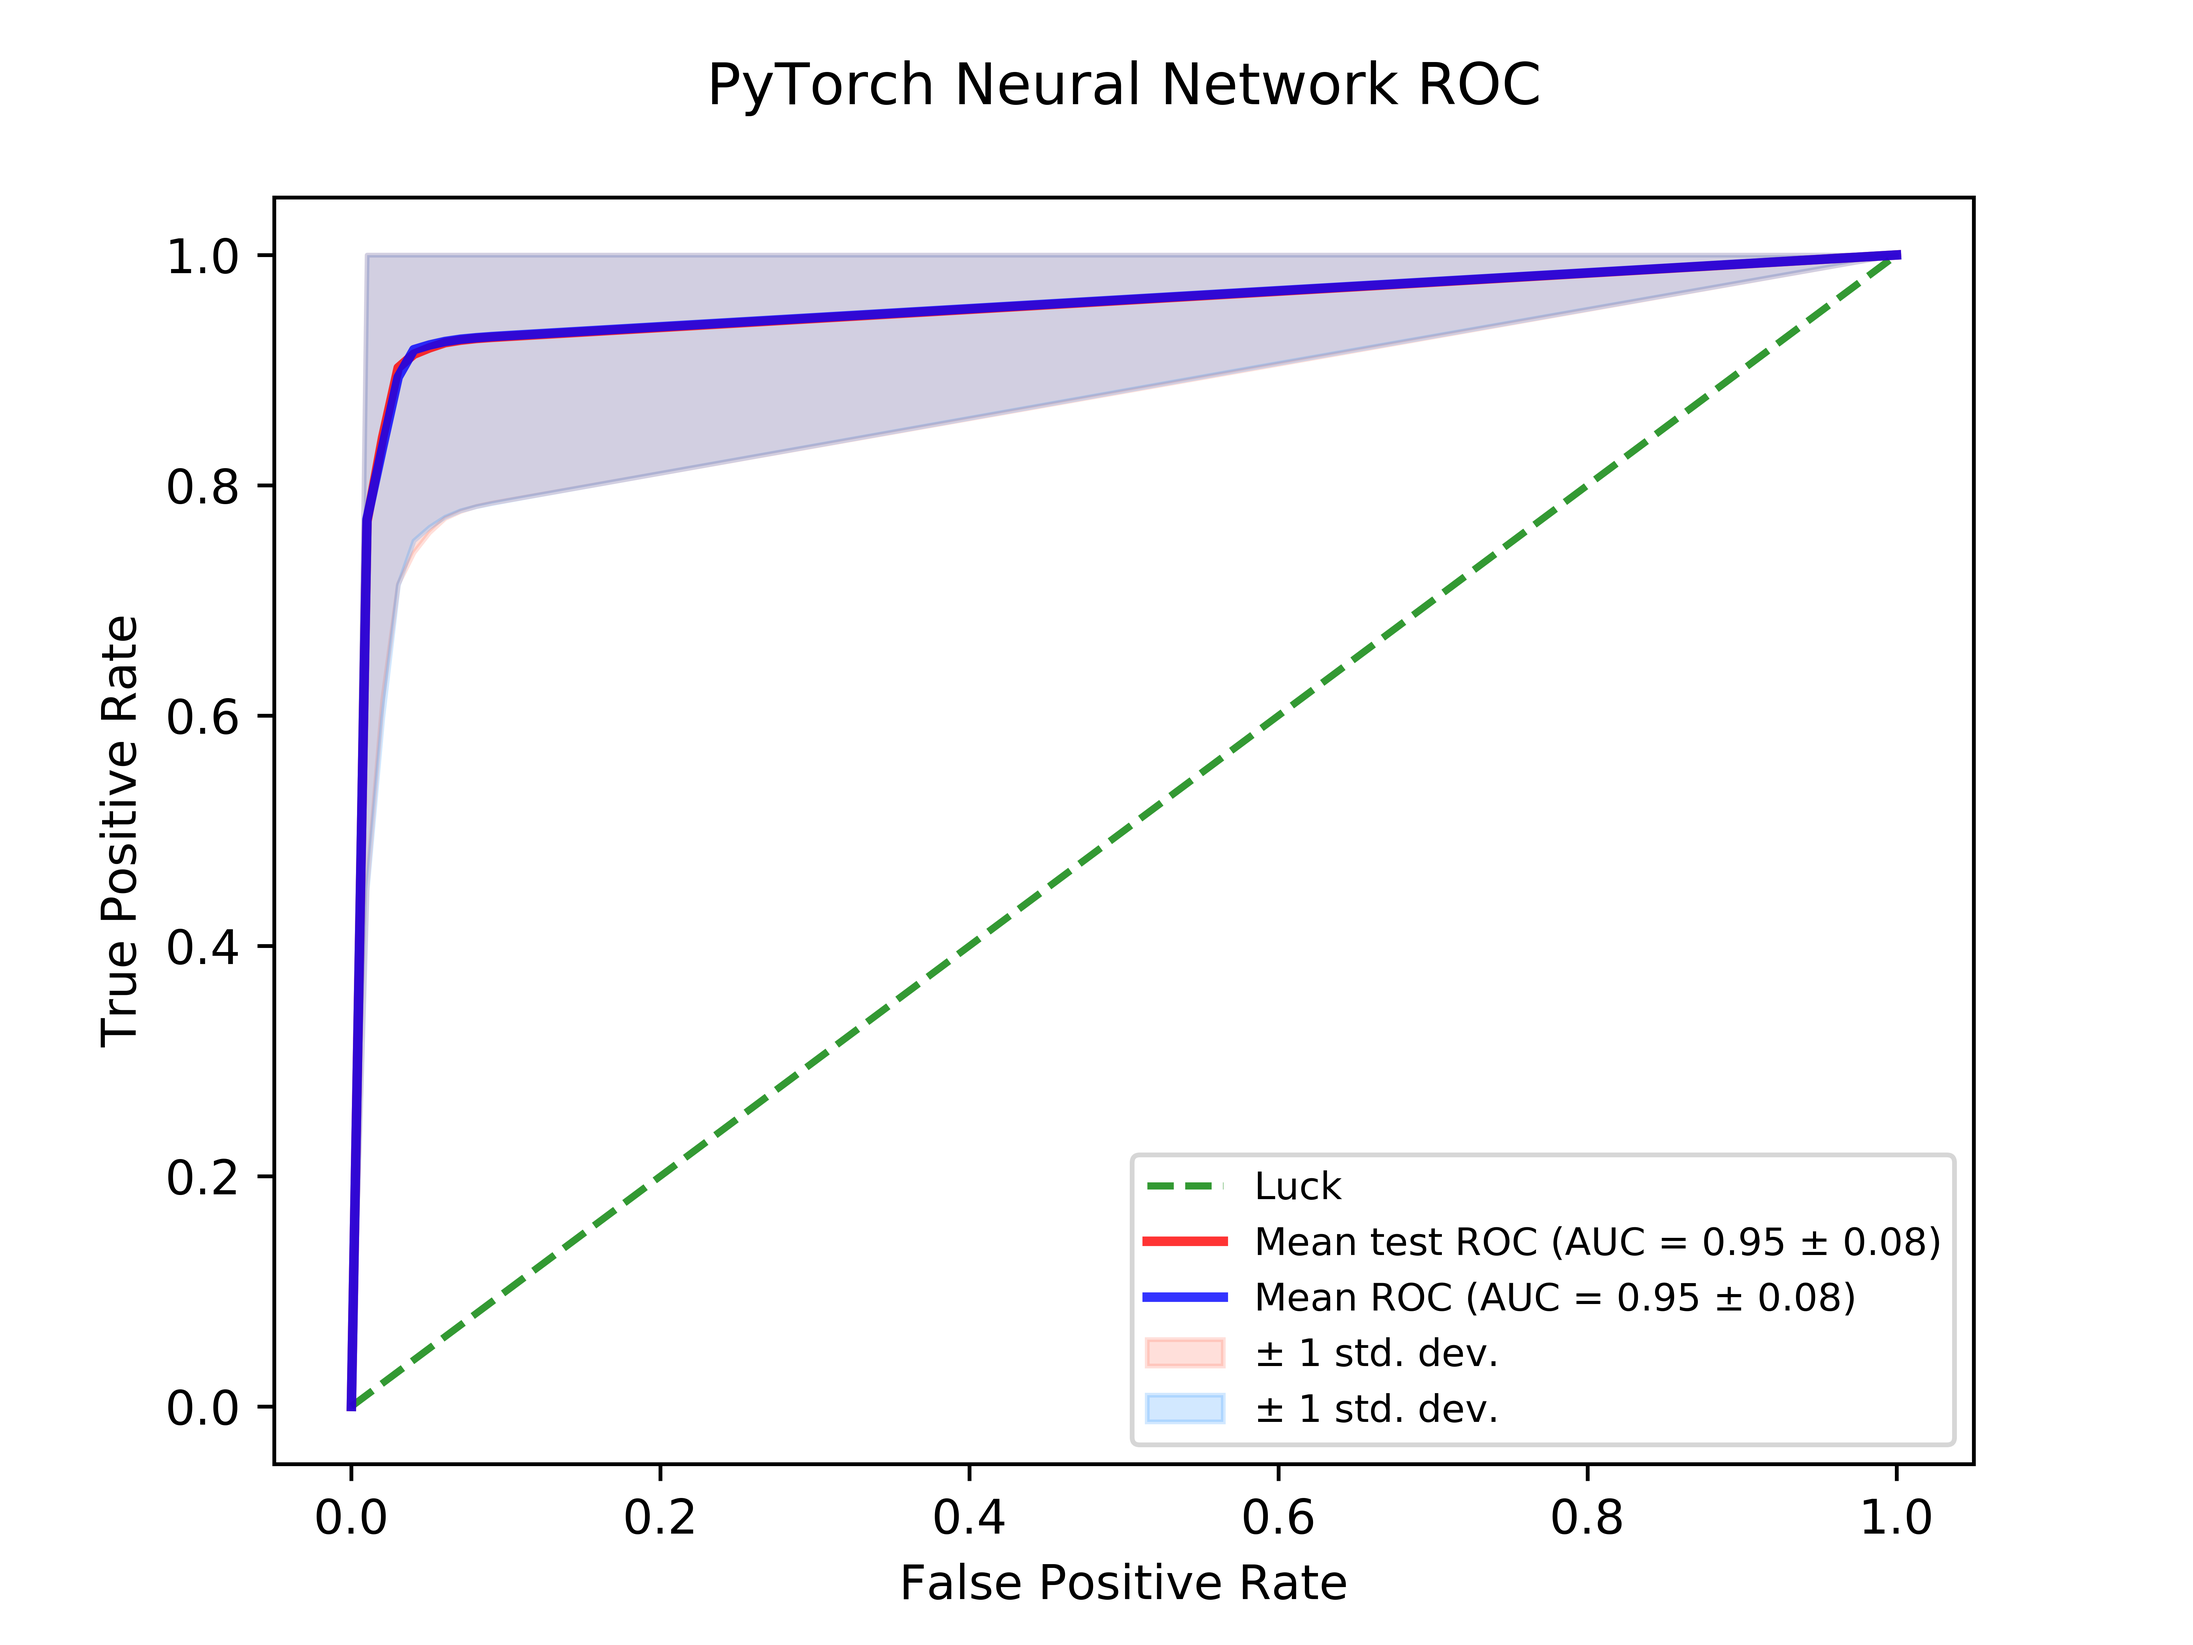
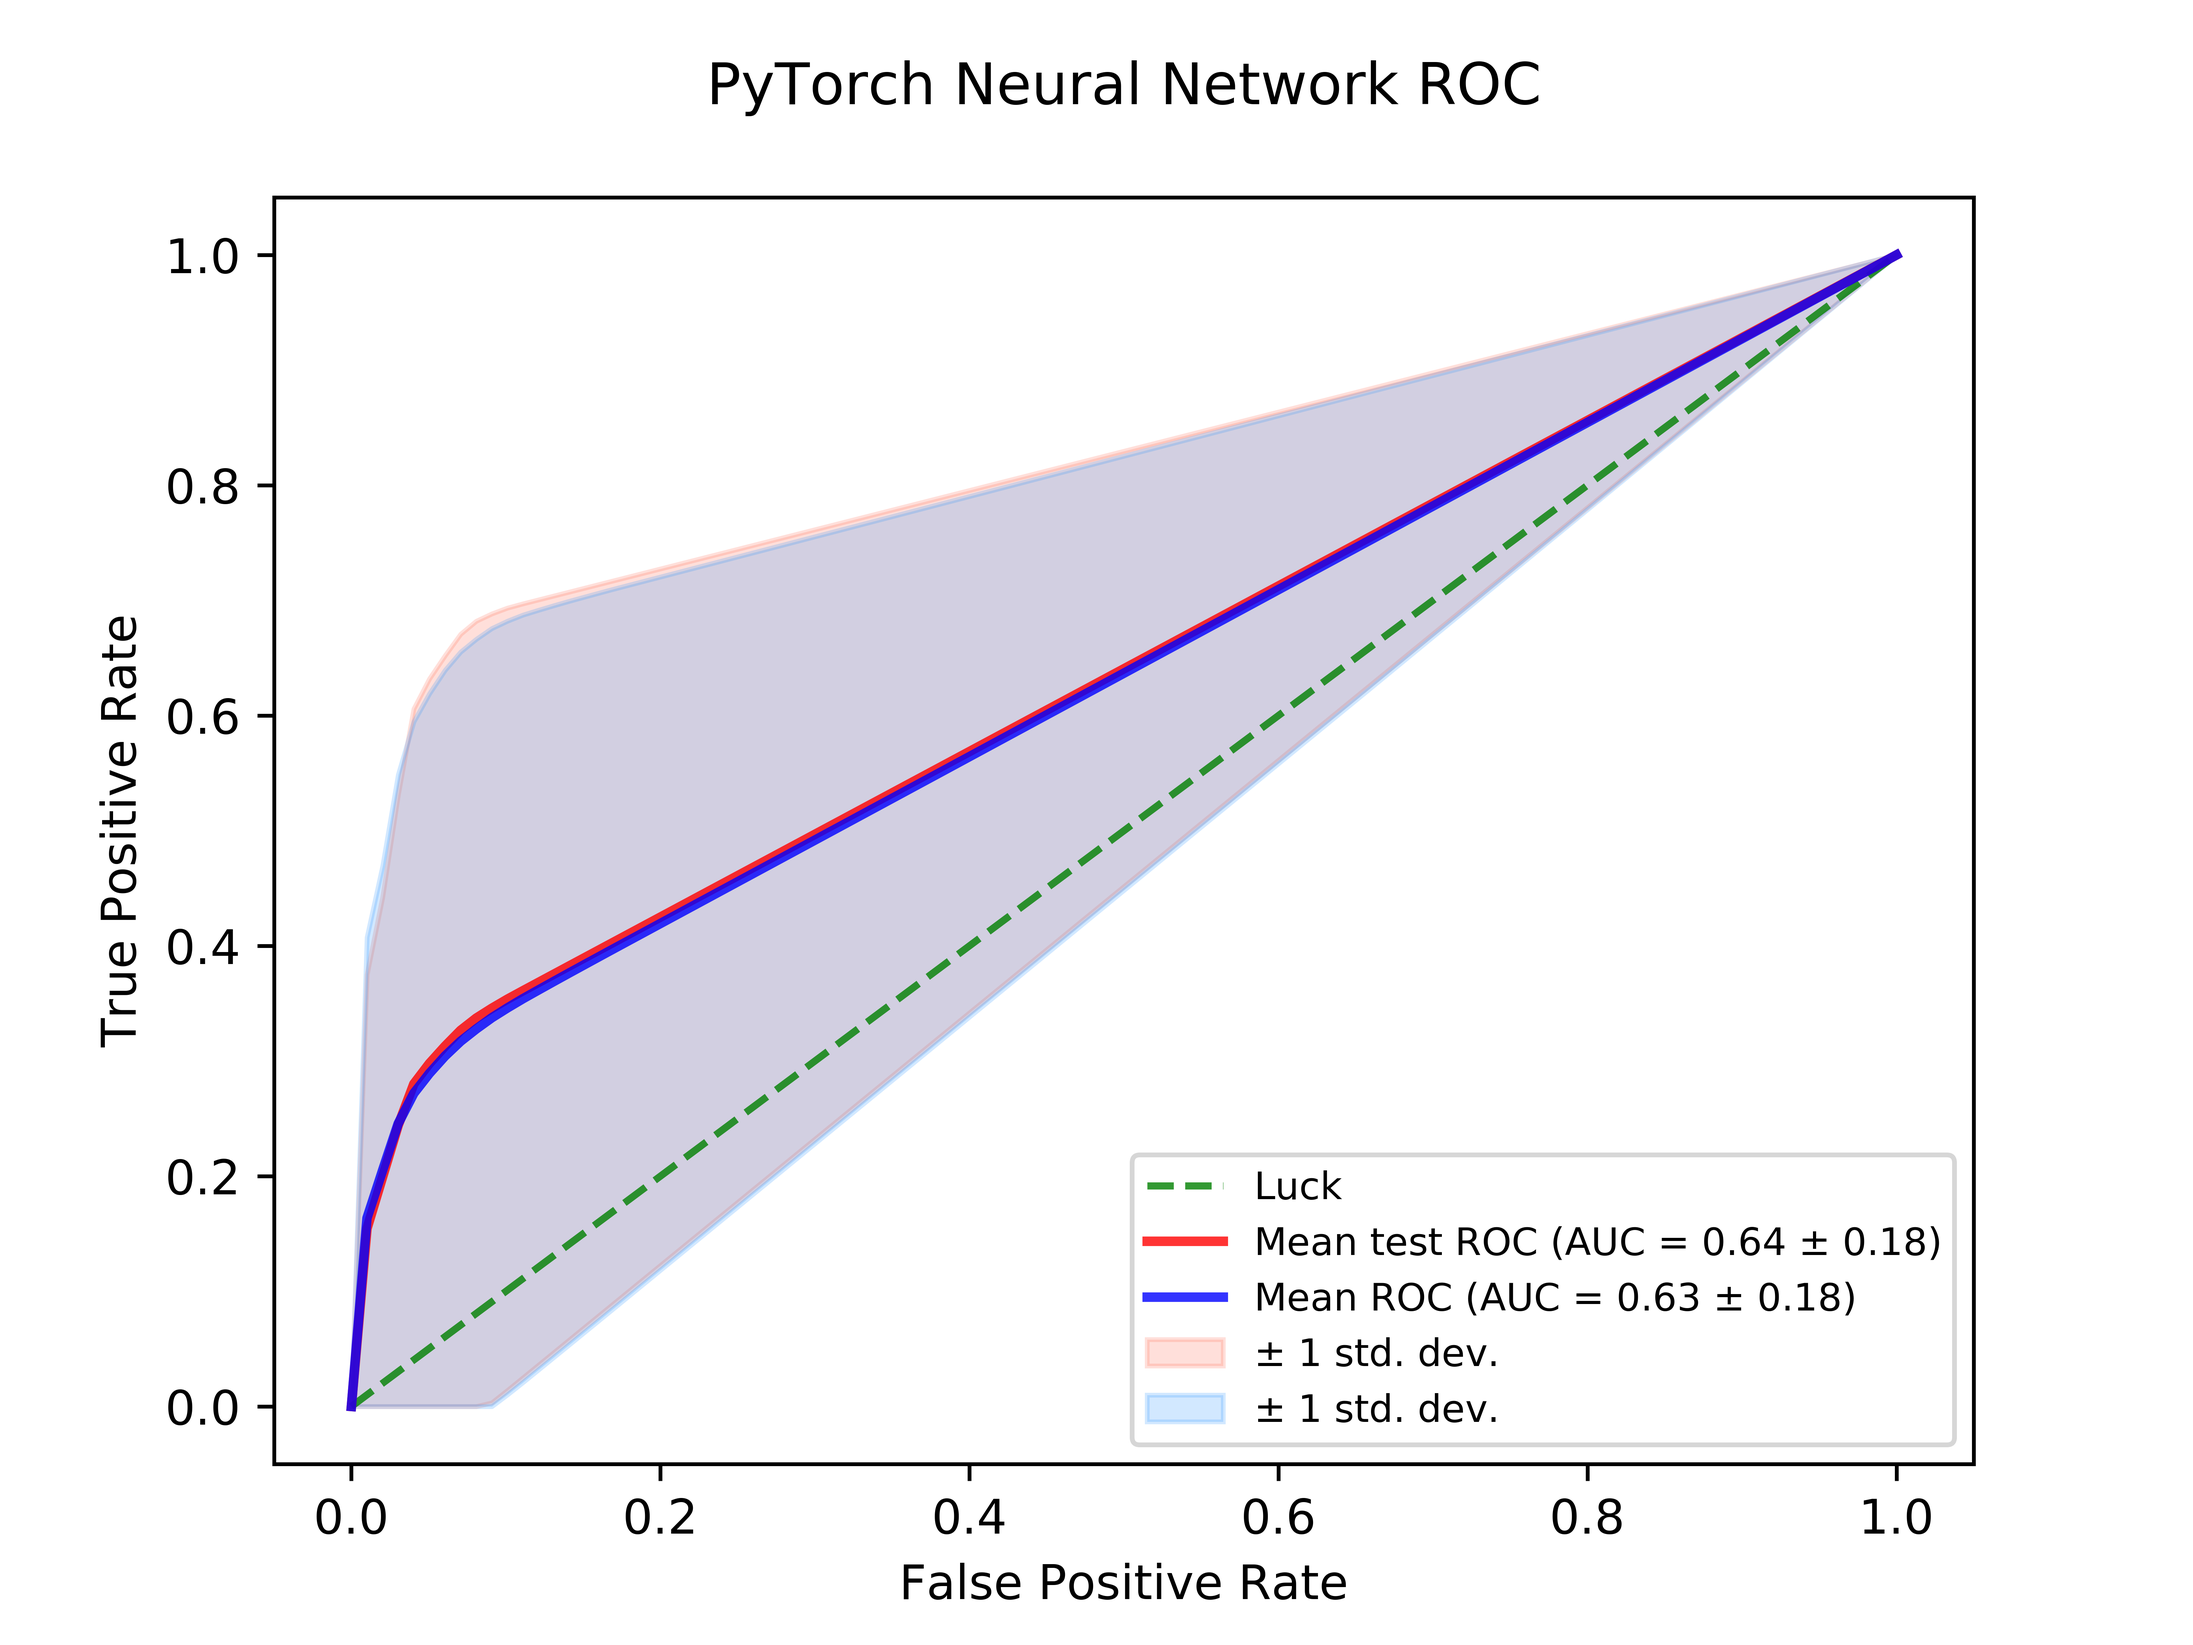
created a validation and test set seperately to evaluate the model in the end

Changed region(s): [[0.1562, 0.1562, 0.875, 0.875], [0.7812, 0.75, 0.8125, 0.7812], [0.75, 0.7812, 0.7812, 0.8125]]

diff --git a/code/pyTorch_baxter.py b/code/pyTorch_baxter.py
@@ -128,6 +128,7 @@ y = data["dx"].replace(diagnosis)
 y.dropna()
 x.dropna()
 
+x_train1, X_test, y_train1, Y_test = train_test_split(x, y, test_size=0.2, shuffle=True)
 
 
 class Net(nn.Module):
@@ -166,7 +167,7 @@ aucs_test = []
 mean_fpr_test = np.linspace(0, 1, 100)
 
 for epoch in range(num_epochs):
-    x_train, x_test, y_train, y_test = train_test_split(x, y, test_size=0.2, shuffle=True)
+    x_train, x_test, y_train, y_test = train_test_split(x_train1, y_train1, test_size=0.2, shuffle=True)
     # Mini batch learning
     for i in range(batch_no):
         start = i * batch_size
@@ -234,9 +235,9 @@ plt.legend(loc="lower right", fontsize=8)
 pyTorch_plot.savefig('results/figures/pyTorch_Baxter.png', dpi=1000)
 
 net.eval()
-pred = net(torch.from_numpy(x.values).float())
+pred = net(torch.from_numpy(X_test.values).float())
 pred = torch.max(pred,1)[1]
 len(pred)
 pred = pred.data.numpy()
-print(accuracy_score(y, pred))
-print(confusion_matrix(y, pred))
+print(accuracy_score(Y_test, pred))
+print(confusion_matrix(Y_test, pred))
